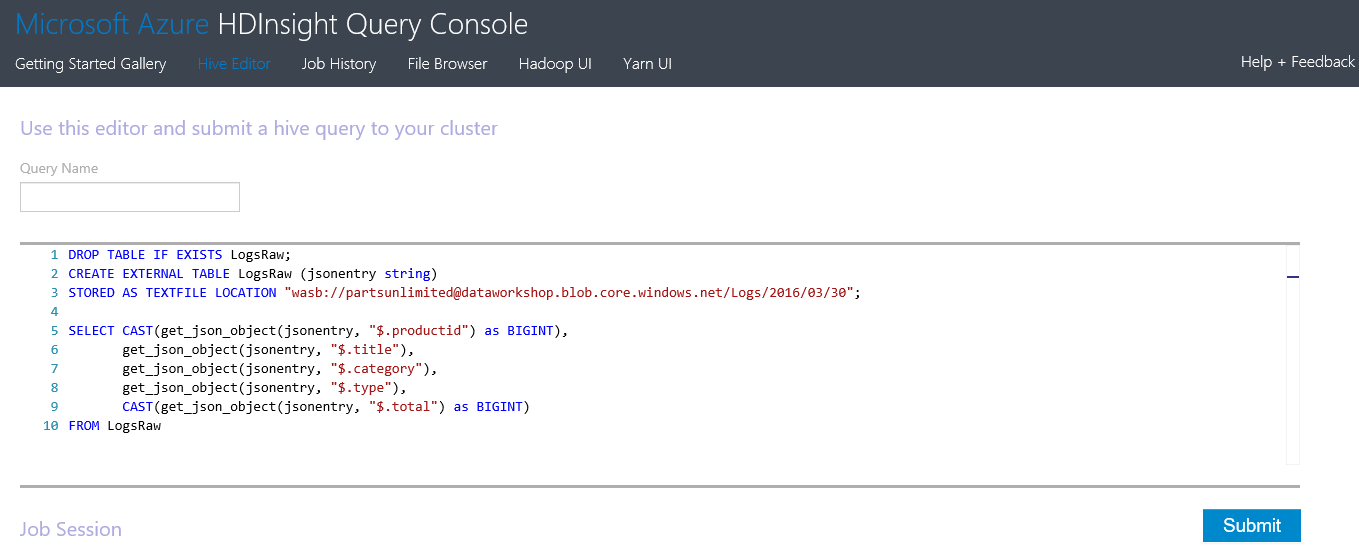
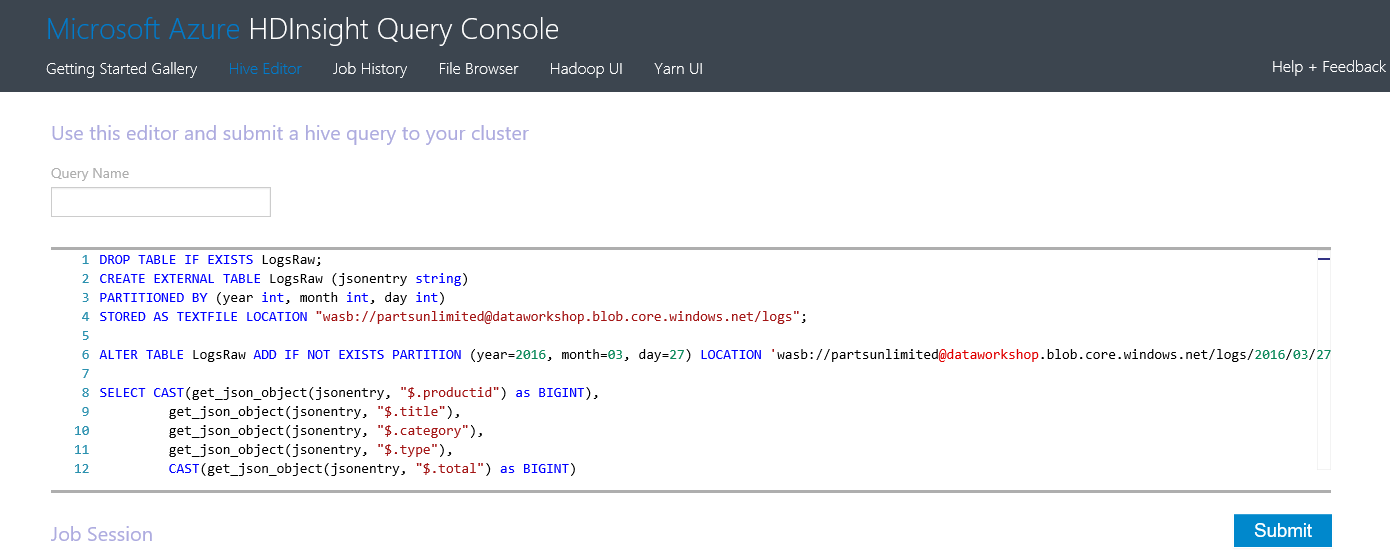
WIP: using separated scripts for partitioned table and create "processeddata" container in storage

diff --git a/Module2-GainInsights/README.md b/Module2-GainInsights/README.md
@@ -144,12 +144,12 @@ In order to run the exercises in this module, you'll need to create an HDI clust
 
 1. Open Windows Explorer and browse to the module's **Setup** folder.
 
-1. Right-click **GenerateData.cmd** and select **Run as Administrator** to generate the sample data files and exit the script. The files will be generated in **Setup\Assets\Logs** using date partitioned folders.
+1. Right-click **GenerateData.cmd** and select **Run as Administrator** to generate the sample data files and exit the script. The files will be generated in **Setup\Assets\logs** using date partitioned folders.
 
 	> **Note:** Azure Data Factory supports partitioned data. You can specify a dynamic folder path and file name for time series data with the "partitionedBy" section when defining the pipeline activities, also using Data Factory macros and the system variables: SliceStart and SliceEnd, which indicate start and end times for a given data slice. For example:
 	> 
 	> ````JavaScript
-		"folderPath": "partsunlimited/Logs/{Year}/{Month}/{Day}",
+		"folderPath": "partsunlimited/logs/{Year}/{Month}/{Day}",
 		"partitionedBy": 
 		 [
 			 { "name": "Year", "value": { "type": "DateTime", "date": "SliceStart", "format": "yyyy" } },
@@ -178,9 +178,11 @@ In order to run the exercises in this module, you'll need to create an HDI clust
 
 1. Create a new Blob Container with the name "**partsunlimited**" and "Container" access level. In _Azure Storage Explorer_ expand your account and right-click on **Blob Containers**, select **Create Blob Container** and enter "partsunlimited". Press enter to create the container. Then right-click on the new container and select **Set Public Access Level..** and choose **Public read access for container and blobs**.
 
-1. Copy the whole **Logs** folder (in _Setup\Assets_) into the **partsunlimited** container to upload all the data files. In _Azure Storage Explorer_, select the **partsunlimited** container, click **Upload** and choose **Upload folder**. In the _Upload folder_ dialog, select the **Logs** folder (from _Setup\Assets_) and then click **Upload**
+1. Copy the whole **logs** folder (in _Setup\Assets_) into the **partsunlimited** container to upload all the data files. In _Azure Storage Explorer_, select the **partsunlimited** container, click **Upload** and choose **Upload folder**. In the _Upload folder_ dialog, select the **logs** folder (from _Setup\Assets_) and then click **Upload**
 
 1. Repeat to upload the **Scripts** folder.
+
+1. Create another Blob Container with the name "**processeddata**" and use "Container" access level. This container will be used to store the result from the HDI processing.
 
 > **Note:** Alternativelly, you could use the [Blob Service REST API](https://msdn.microsoft.com/en-us/library/azure/dd135733.aspx) to automate the files upload.
 
@@ -426,7 +428,7 @@ In this task, you'll create the input and output tables corresponding to the lin
 
 	````JavaScript
 	"typeProperties": {
-		"folderPath": "partsunlimited/Logs/{Year}/{Month}/{Day}",
+		"folderPath": "partsunlimited/logs/{Year}/{Month}/{Day}",
 		"partitionedBy": 
 		[
 			 { "name": "Year", "value": { "type": "DateTime", "date": "SliceStart", "format": "yyyy" } },
@@ -463,7 +465,7 @@ In this task, you'll create the input and output tables corresponding to the lin
 			"type": "AzureBlob",
 			"linkedServiceName": "AzureStorageLinkedService",
 			"typeProperties": {
-				"folderPath": "partsunlimited/Logs/{Year}/{Month}/{Day}",
+				"folderPath": "partsunlimited/logs/{Year}/{Month}/{Day}",
 				"partitionedBy": 
 				[
 					 { "name": "Year", "value": { "type": "DateTime", "date": "SliceStart", "format": "yyyy" } },
@@ -520,7 +522,7 @@ In this task, you'll create the input and output tables corresponding to the lin
 
 		````JavaScript
 		"typeProperties": {
-			"folderPath": "partsunlimited/Stats/{Year}/{Month}/{Day}",
+			"folderPath": "processeddata/logs/{Year}/{Month}/{Day}",
 			"partitionedBy": 
 			[
 				 { "name": "Year", "value": { "type": "DateTime", "date": "SliceStart", "format": "yyyy" } },
@@ -573,7 +575,7 @@ In this task, you'll create the input and output tables corresponding to the lin
 					}
 				],
 				"typeProperties": {
-					"folderPath": "partsunlimited/Stats/{Year}/{Month}/{Day}",
+					"folderPath": "processeddata/logs/{Year}/{Month}/{Day}",
 					"partitionedBy": 
 					[
 						 { "name": "Year", "value": { "type": "DateTime", "date": "SliceStart", "format": "yyyy" } },
@@ -713,12 +715,14 @@ In this task, you'll write a Hive query to generate product stats (views and car
 
 	1. Open the **Hive Editor** using the link in the top bar if the HDI cluster is running _Windows_. 
 
-	1. Write HQL code to create a table from the existing blobs and parse the JSON format. Replace the **StorageAccountName**, update the folder to be valid (where the input logs were uploaded according to the current date) and paste the snippet below:
+	1. Write HQL code to create a partitioned table for the existing blobs and then parse the JSON format. Paste the snippet below, replace the **StorageAccountName** and update the partition to be of a valid date and location (where the input logs were uploaded according to the current date):
 
-		````
+		````SQL
 		DROP TABLE IF EXISTS LogsRaw;
 		CREATE EXTERNAL TABLE LogsRaw (jsonentry string) 
-		STORED AS TEXTFILE LOCATION "wasb://partsunlimited@<StorageAccountName>.blob.core.windows.net/Logs/2016/03/30";
+		STORED AS TEXTFILE LOCATION "wasb://partsunlimited@<StorageAccountName>.blob.core.windows.net/logs/2016/03/30";
+
+		ALTER TABLE LogsRaw ADD IF NOT EXISTS PARTITION (year=2016, month=03, day=27) LOCATION 'wasb://partsunlimited@<StorageAccountName>.blob.core.windows.net/logs/2016/03/30';
 
 		SELECT CAST(get_json_object(jsonentry, "$.productid") as BIGINT),
 				 get_json_object(jsonentry, "$.title"),
@@ -756,12 +760,14 @@ In this task, you'll write a Hive query to generate product stats (views and car
 
 		_Hive view option in Ambari_
 
-	1. In the new worksheet, write HQL code to create a table from the existing blobs and parse the JSON format. Replace the **StorageAccountName**, update the folder to be valid (where the input logs were uploaded according to the current date) and paste the snippet below:
+	1. In the new worksheet, write HQL code to create a partitioned table for the existing blobs and then parse the JSON format. Paste the snippet below, replace the **StorageAccountName** and update the partition to be of a valid date and location (where the input logs were uploaded according to the current date):
 
-		````
+		````SQL
 		DROP TABLE IF EXISTS LogsRaw;
 		CREATE EXTERNAL TABLE LogsRaw (jsonentry string) 
-		STORED AS TEXTFILE LOCATION "wasb://partsunlimited@<StorageAccountName>.blob.core.windows.net/Logs/2016/03/30";
+		STORED AS TEXTFILE LOCATION "wasb://partsunlimited@<StorageAccountName>.blob.core.windows.net/logs/2016/03/30";
+
+		ALTER TABLE LogsRaw ADD IF NOT EXISTS PARTITION (year=2016, month=03, day=27) LOCATION 'wasb://partsunlimited@<StorageAccountName>.blob.core.windows.net/logs/2016/03/30';
 
 		SELECT CAST(get_json_object(jsonentry, "$.productid") as BIGINT),
 				 get_json_object(jsonentry, "$.title"),
@@ -787,6 +793,23 @@ In this task, you'll write a Hive query to generate product stats (views and car
 
 	> **Note:** Ambari portal offers many features over the Windows dashboard. You can create advanced visualization of the data results using charts, customize the Hive settings, create customized views, among many other options. To learn more about Ambari portal go to [Manage HDInsight clusters by using the Ambari Web UI](https://azure.microsoft.com/documentation/articles/hdinsight-hadoop-manage-ambari/).
 
+1. Write a new Hive query to create the output partitioned table using a columns schema matching the output of the previous query. Paste the snippet below and replace the **StorageAccountName** placeholder.
+
+	````SQL
+	DROP TABLE IF EXISTS OutputTable;
+	CREATE EXTERNAL TABLE OutputTable (
+		productid int,
+		title string,
+		category string,
+		type string,
+		totalClicked int
+	) PARTITIONED BY (year int, month int, day int) 
+	ROW FORMAT DELIMITED FIELDS TERMINATED BY ',' LINES TERMINATED BY '\n'
+	STORED AS TEXTFILE LOCATION 'wasb://processeddata@<StorageAccountName>.blob.core.windows.net/logs';
+	````
+
+1. **Submit** or **execute** the Hive query to create the output table.
+
 <a name="Ex2Task2"></a>
 #### Task 2 - Create the HQL script for the Hive Activity ####
 
@@ -794,37 +817,29 @@ In this task, you'll reuse the Hive query to generate the HQL script for the Hiv
 
 1. Open the file located in **Setup\Assets\Scripts\logstocsv.hql** and review its content:
 
-	````
-	DROP TABLE IF EXISTS LogsRaw;
-	CREATE EXTERNAL TABLE LogsRaw (jsonentry string) 
-	STORED AS TEXTFILE LOCATION "${hiveconf:inputjson}";
-
-	DROP TABLE IF EXISTS OutputTable;
-	CREATE EXTERNAL TABLE OutputTable
-	(
-		 productid       int,
-		 title           string,
-		 category        string,
-		 type            string,
-		 total            int
-	)
-	ROW FORMAT DELIMITED FIELDS TERMINATED BY ','
-	LINES TERMINATED BY '10'
-	STORED AS TEXTFILE LOCATION '${hiveconf:outputcsv}'
-	TBLPROPERTIES("skip.header.line.count"="1");
-
-	INSERT OVERWRITE TABLE OutputTable
-	SELECT CAST(get_json_object(jsonentry, "$.productid") as BIGINT) as productid,
-				get_json_object(jsonentry, "$.title") as title,
-				get_json_object(jsonentry, "$.category") as category,
-				get_json_object(jsonentry, "$.type") as type,
-				CAST(get_json_object(jsonentry, "$.total") as BIGINT) as total
-	FROM LogsRaw
+	````SQL
+	INSERT OVERWRITE TABLE OutputTable Partition (year=${hiveconf:Year}, month=${hiveconf:Month}, day=${hiveconf:Day})
+SELECT CAST(get_json_object(jsonentry, "$.productid") as BIGINT) as productid,
+         get_json_object(jsonentry, "$.title") as title,
+         get_json_object(jsonentry, "$.category") as category,
+         get_json_object(jsonentry, "$.type") as type,
+         CAST(get_json_object(jsonentry, "$.total") as BIGINT) as total
+FROM LogsRaw
 	````
 
-    Notice this script is, essentially, the Hive query you wrote and tested in the previous task but it also includes an output table to store the results in tabular format (CSV).
+    Notice this script is, essentially, the Hive query you wrote and tested in the previous task but it insert the results in the output table.
 
-1. This script was already uploaded to your storage during the module setup by using the manual steps or the **Setup.cmd** script. Verify the HQL script was uploaded by using the an storage explorer tool such as **Azure Storage Explorer** to navigate to the **Scripts** folder in the **partsunlimited** container.
+1. Open the file located in **Setup\Assets\Scripts\addpartitions.hql** and review its content:
+
+	````SQL
+	ALTER TABLE LogsRaw ADD IF NOT EXISTS PARTITION (year=${hiveconf:Year}, month=${hiveconf:Month}, day=${hiveconf:Day}) LOCATION 'wasb://partsunlimited@${hiveconf:StorageAccountName}.blob.core.windows.net/logs/${hiveconf:Year}/${hiveconf:Month}/${hiveconf:Day}';
+
+	ALTER TABLE OutputTable ADD IF NOT EXISTS PARTITION (year=${hiveconf:Year}, month=${hiveconf:Month}, day=${hiveconf:Day}) LOCATION 'wasb://processeddata@${hiveconf:StorageAccountName}.blob.core.windows.net/logs/${hiveconf:Year}/${hiveconf:Month}/${hiveconf:Day}';
+	````
+
+    This script adds the partitiones by date to the input and output tables. The storage account name and all the required date components for the partitiones will be passed as parameters by the Hive action running in the Data Factory.
+
+1. These script was already uploaded to your storage during the module setup by using the manual steps or the **Setup.cmd** script. Verify the HQL script was uploaded by using the an storage explorer tool such as **Azure Storage Explorer** to navigate to the **Scripts** folder in the **partsunlimited** container.
 
 	1. Open **Azure Storage Explorer**, right click on "Storage Account" tree item and select **Attach External Storage...**
 
@@ -881,32 +896,64 @@ In this task, you'll create the pipeline to generate the stats output using a _H
 
 1. Set the **end** date to be tomorrow.
 
-1. Add a Hive activity to run the "logstocsv.hql" script located in the storage at "partsunlimited\Scripts\logtostats.hql" and pass the input (logs folder) and output (CSV folder) paths as parameters for the script. Make sure to replace the **<****StorageAccountName****>** placeholder with the storage account name:
+1. Add a Hive activity to run the "addpartitions.hql" script located in the storage at "partsunlimited\Scripts\addpartitions.hql" and pass the slice date components as parameters. Make sure to replace the **<****StorageAccountName****>** placeholder with the storage account name:
 
 	````JavaScript
 	"activities": [
 		{
-			"name": "LogsToCsvHiveActivity",
-			"type": "HDInsightHive",
-			"linkedServiceName": "HDInsightLinkedService",
-			"typeProperties": {
-				"scriptPath": "partsunlimited\\Scripts\\logstocsv.hql",
-				"scriptLinkedService": "AzureStorageLinkedService",
-				  "defines": {
-						"inputjson": "$$Text.Format('wasb://partsunlimited@<StorageAccountName>.blob.core.windows.net/Logs/{0:yyyy}/{0:MM}/{0:dd}/', SliceStart)",
-						"outputcsv": "$$Text.Format('wasb://partsunlimited@<StorageAccountName>.blob.core.windows.net/Stats/{0:yyyy}/{0:MM}/{0:dd}/', SliceStart)"
-				  }
-			},
-			"inputs": [
-				{ "name": "LogJsonFromBlob" }
-			],
-			"outputs": [
-				{ "name": "LogCsvFromBlob" }
-			],
-			"scheduler": {
-				"frequency": "Day",
-				"interval": 1
-			}
+			 "name": "CreatePartitionHiveActivity",
+			 "type": "HDInsightHive",
+			 "linkedServiceName": "HDInsightLinkedService",
+			 "typeProperties": {
+				  "scriptPath": "partsunlimited\\Scripts\\addpartitions.hql",
+				  "scriptLinkedService": "AzureStorageLinkedService",
+					 "defines": {
+					"StorageAccountName": "<StorageAccountName>",
+							 "Year": "$$Text.Format('{0:yyyy}', SliceStart)",
+							 "Month": "$$Text.Format('{0:MM}', SliceStart)",
+							 "Day": "$$Text.Format('{0:dd}', SliceStart)"
+					 }
+			 },
+			 "scheduler": {
+				  "frequency": "Day",
+				  "interval": 1
+			 }
+		}
+	],
+	````
+
+	This activity will run the **addpartitiones.hql** script to create the date partition corresponding to the current slice.
+
+1. Add another Hive activity to run the "logstocsv.hql" script located in the storage at "partsunlimited\Scripts\logtostats.hql" and pass the slice date components as parameters:
+
+	````JavaScript
+	"activities": [
+		{
+			 //...
+		},
+		{
+			 "name": "ProcessDataHiveActivity",
+			 "type": "HDInsightHive",
+			 "linkedServiceName": "HDInsightLinkedService",
+			 "typeProperties": {
+				  "scriptPath": "partsunlimited\\Scripts\\logstocsv.hql",
+				  "scriptLinkedService": "AzureStorageLinkedService",
+					 "defines": {
+							 "Year": "$$Text.Format('{0:yyyy}', SliceStart)",
+							 "Month": "$$Text.Format('{0:MM}', SliceStart)",
+							 "Day": "$$Text.Format('{0:dd}', SliceStart)"
+					 }
+			 },
+			 "inputs": [
+				  { "name": "LogJsonFromBlob" }
+			 ],
+			 "outputs": [
+				  { "name": "LogCsvFromBlob" }
+			 ],
+			 "scheduler": {
+				  "frequency": "Day",
+				  "interval": 1
+			 }
 		}
 	],
 	````
